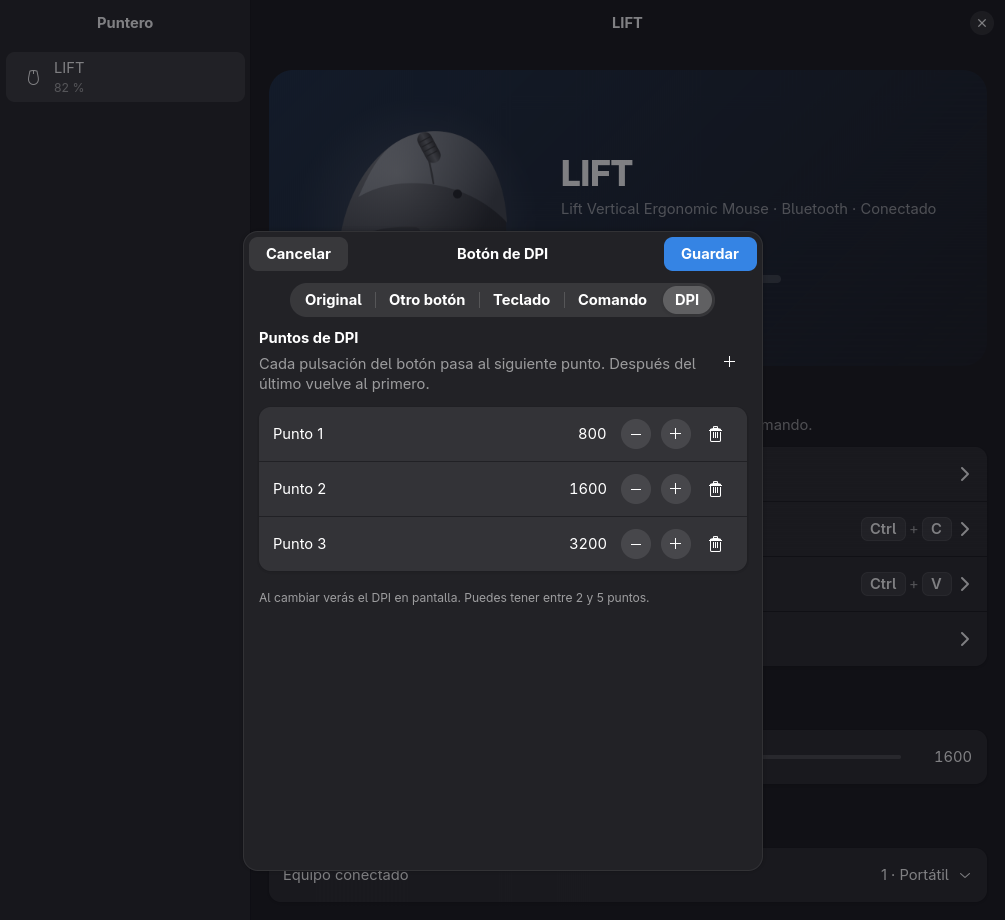
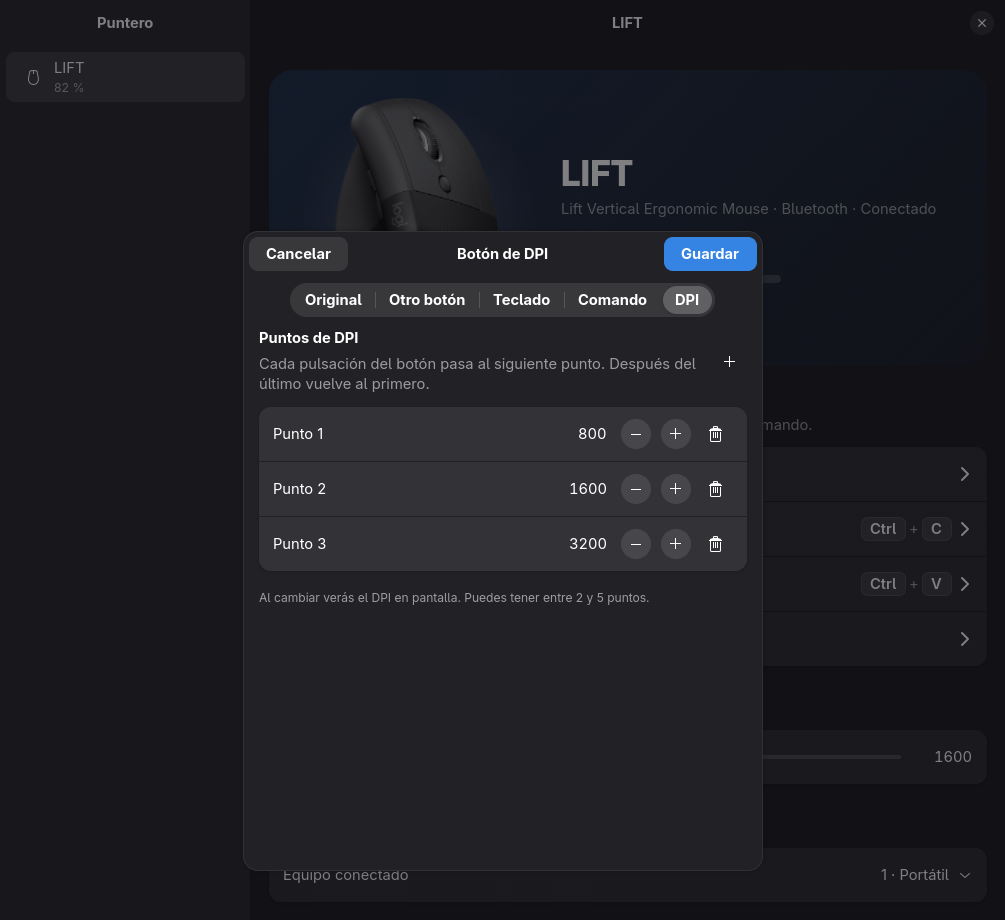
Capturas del README con la foto real del ratón

Changed region(s): [[0.3393, 0.0913, 0.4627, 0.2739], [0.4627, 0.1522, 0.4935, 0.1826]]

diff --git a/README.md b/README.md
@@ -5,6 +5,8 @@ Usa [Solaar](https://github.com/pwr-Solaar/Solaar) como motor y una interfaz GTK
 
 ![Ventana principal de Puntero](docs/captura-main.png)
 
+<sub>En las capturas se ve la foto del ratón añadida como [imagen propia](#imágenes-propias); sin ella, Puntero muestra una ilustración.</sub>
+
 ## Qué hace
 
 - **Batería** en grande, con aviso de carga.
